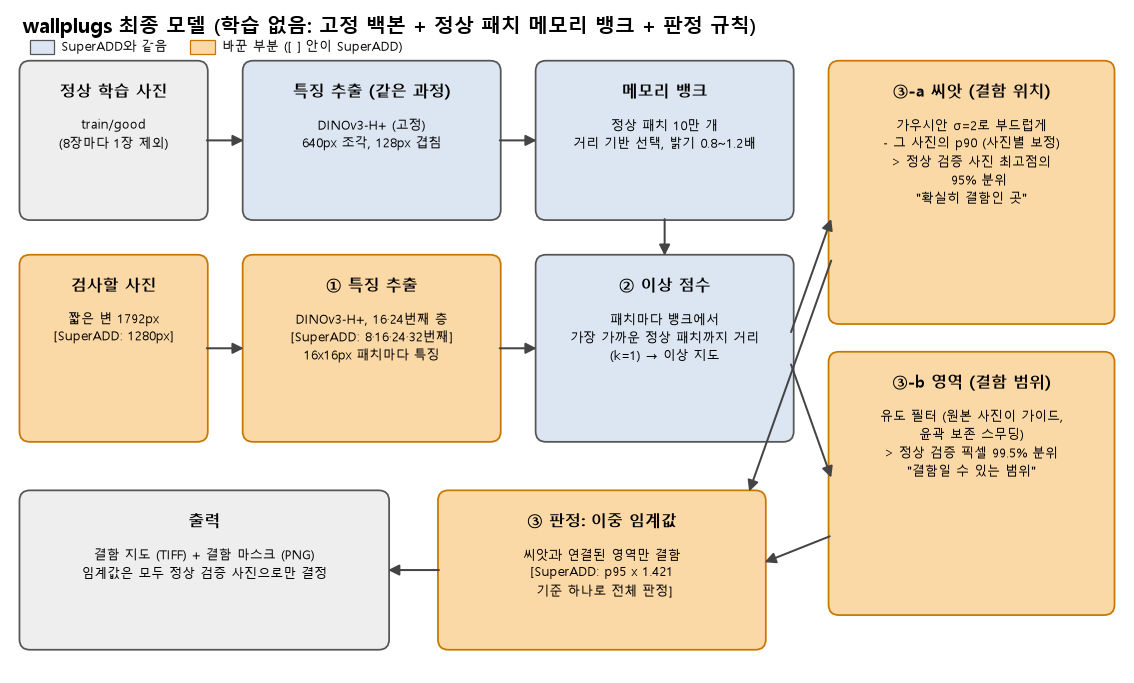
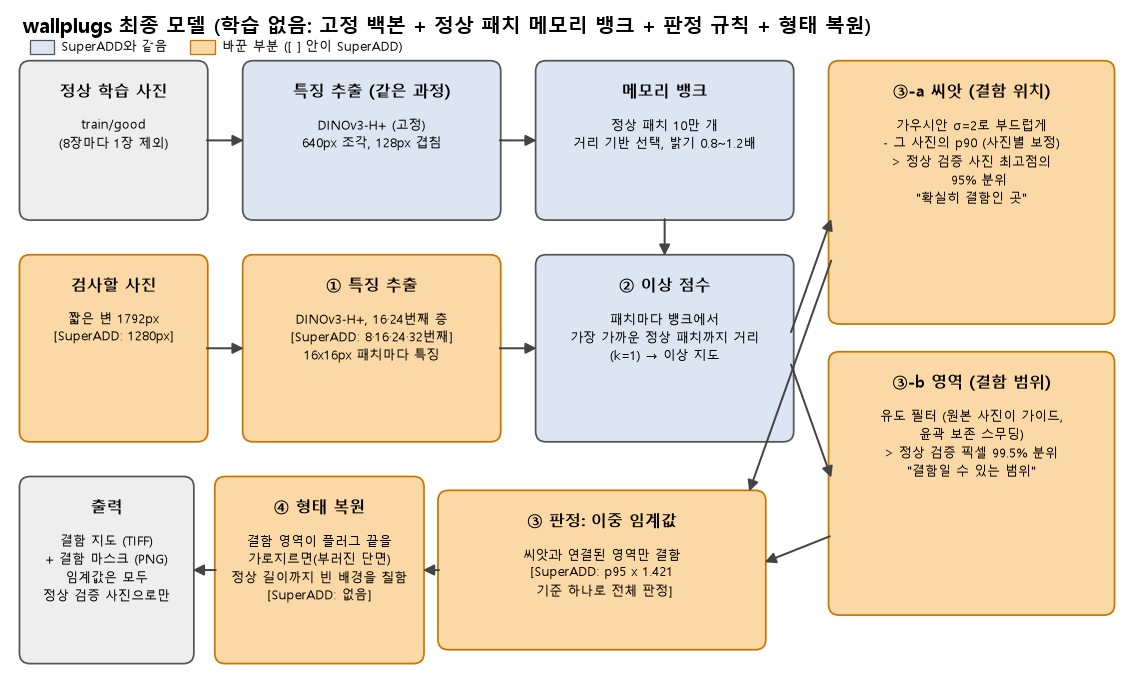
wallplugs: private-test result figure (ours vs SuperADD vs leaderboard best); model diagram gets the shape-completion step

Changed region(s): [[0.0, 0.6764, 0.4012, 0.9839], [0.6481, 0.0, 0.7716, 0.0615]]

diff --git a/scripts/wp_private_results.py b/scripts/wp_private_results.py
@@ -1,0 +1,57 @@
+"""wallplugs private-test results of our benchmark submission (2026-11-09) vs SuperADD and the leaderboard's best.
+Sources: ours = benchmark.mvtec.com row "DINOv3-HiResKNN"; SuperADD SegF1 = paper Table 2; SuperADD AucPro / ClassF1 =
+the leaderboard rows "SuperADD-DINOv3" (14.09.26) / "SuperADD" (07.11.26) (the paper gives SegF1 only); leaderboard best
+= best wallplugs value among each metric's top-10 rows (2026-11-06).
+    .venv/Scripts/python.exe scripts/wp_private_results.py  -> docs/figures/wp_private_results.png
+"""
+import matplotlib.pyplot as plt
+import numpy as np
+
+plt.rcParams["font.family"] = "Malgun Gothic"
+plt.rcParams["axes.unicode_minus"] = False
+METRICS = ["AucPro_0.05\n(지도 품질)", "ClassF1\n(사진 단위 판정)", "SegF1\n(결함 영역 분할)"]
+OURS = [70.56, 68.96, 33.63]
+SUPER = [48.28, 54.00, 26.40]
+BEST = [80.66, 81.15, 51.90]
+BEST_NAME = ["YL", "DINO-DDB", "VAND2025 WSEG"]
+C_OURS, C_SUP, C_BEST = "#2a78d6", "#eb6834", "#1baf7a"
+INK, INK2, GRID, SURF = "#0b0b0b", "#52514e", "#e4e3df", "#fcfcfb"
+
+fig, (ax, ax2) = plt.subplots(1, 2, figsize=(14, 5.6), gridspec_kw={"width_ratios": [2.2, 1]}, facecolor=SURF)
+x = np.arange(3)
+w = 0.26
+ax.set_facecolor(SURF)
+for off, vals, c, lab in ((-w, OURS, C_OURS, "우리 (DINOv3-HiResKNN)"), (0, SUPER, C_SUP, "SuperADD"),
+                          (w, BEST, C_BEST, "리더보드 최고 (상위 10개 중)")):
+    ax.bar(x + off, vals, w - 0.03, color=c, label=lab, zorder=3)
+    for i, v in enumerate(vals):
+        ax.text(i + off, v + 1.0, f"{v:.1f}", ha="center", va="bottom", fontsize=10,
+                color=INK, fontweight="bold" if c == C_OURS else "normal")
+for i, n in enumerate(BEST_NAME):
+    ax.text(i + w, 2, n, ha="center", va="bottom", fontsize=7.5, color="white", rotation=90, zorder=4)
+ax.set_xticks(x, METRICS, fontsize=10.5, color=INK)
+ax.set_ylim(0, 100)
+ax.set_title("wallplugs private test (공식 서버 채점)", loc="left", fontsize=13, color=INK, fontweight="bold")
+ax.legend(loc="upper right", frameon=False, fontsize=9.5, labelcolor=INK)
+
+ax2.set_facecolor(SURF)
+for vals, c, lab in (((75.7, 33.63), C_OURS, "우리"), ((79.2, 26.4), C_SUP, "SuperADD")):
+    ax2.plot([0, 1], vals, color=c, lw=2, marker="o", ms=8, zorder=3)
+    ax2.text(1.06, vals[1], f"{lab} {vals[1]:.1f}", va="center", fontsize=10, color=INK)
+    ax2.text(-0.06, vals[0], f"{vals[0]:.1f}", va="center", ha="right", fontsize=10, color=INK)
+ax2.set_xticks([0, 1], ["공개 test", "private"], fontsize=10.5, color=INK)
+ax2.set_xlim(-0.45, 1.6)
+ax2.set_ylim(0, 100)
+ax2.set_title("SegF1: 공개 → private", loc="left", fontsize=13, color=INK, fontweight="bold")
+for a in (ax, ax2):
+    a.grid(axis="y", color=GRID, lw=0.8, zorder=0)
+    a.tick_params(axis="y", colors=INK2, labelsize=9)
+    a.tick_params(axis="x", length=0)
+    for s in ("top", "right", "left"):
+        a.spines[s].set_visible(False)
+    a.spines["bottom"].set_color(INK2)
+fig.text(0.01, 0.01, "SuperADD: SegF1은 논문 Table 2, AucPro·ClassF1은 리더보드의 SuperADD 재현 제출(논문에 없음). "
+         "우리 공개 test 75.7은 공개 test로 규칙을 고른 추정치.", fontsize=8.5, color=INK2)
+fig.tight_layout(rect=(0, 0.04, 1, 1))
+fig.savefig("docs/figures/wp_private_results.png", dpi=130, facecolor=SURF)
+print("saved docs/figures/wp_private_results.png")

diff --git a/scripts/wp_model_diagram.py b/scripts/wp_model_diagram.py
@@ -27,7 +27,7 @@ def arrow(x0, y0, x1, y1):
     ax.add_patch(FancyArrowPatch((x0, y0), (x1, y1), arrowstyle="-|>", mutation_scale=18, lw=1.6, color="#444444"))
 
 
-ax.text(0.2, 9.25, "wallplugs 최종 모델 (학습 없음: 고정 백본 + 정상 패치 메모리 뱅크 + 판정 규칙)", fontsize=16, weight="bold")
+ax.text(0.2, 9.25, "wallplugs 최종 모델 (학습 없음: 고정 백본 + 정상 패치 메모리 뱅크 + 판정 규칙 + 형태 복원)", fontsize=16, weight="bold")
 # row 1: bank
 box(0.2, 6.6, 2.6, 2.2, "정상 학습 사진", "train/good\n(8장마다 1장 제외)", IO)
 box(3.4, 6.6, 3.6, 2.2, "특징 추출 (같은 과정)", "DINOv3-H+ (고정)\n640px 조각, 128px 겹침", SAME)
@@ -49,8 +49,10 @@ arrow(11.2, 4.5, 11.8, 2.8)
 box(6.2, 0.4, 4.6, 2.2, "③ 판정: 이중 임계값", "씨앗과 연결된 영역만 결함\n[SuperADD: p95 x 1.421\n 기준 하나로 전체 판정]", NEW, "#C77700")
 arrow(11.8, 2.0, 10.8, 1.6)
 arrow(11.8, 6.0, 10.6, 2.6)
-box(0.2, 0.4, 5.2, 2.2, "출력", "결함 지도 (TIFF) + 결함 마스크 (PNG)\n임계값은 모두 정상 검증 사진으로만 결정", IO)
-arrow(6.2, 1.5, 5.4, 1.5)
+box(3.0, 0.2, 2.9, 2.6, "④ 형태 복원", "결함 영역이 플러그 끝을\n가로지르면(부러진 단면)\n정상 길이까지 빈 배경을 칠함\n[SuperADD: 없음]", NEW, "#C77700")
+arrow(6.2, 1.5, 5.9, 1.5)
+box(0.2, 0.2, 2.4, 2.6, "출력", "결함 지도 (TIFF)\n+ 결함 마스크 (PNG)\n임계값은 모두\n정상 검증 사진으로만", IO)
+arrow(3.0, 1.5, 2.6, 1.5)
 ax.add_patch(FancyBboxPatch((0.3, 8.95), 0.35, 0.2, boxstyle="square,pad=0", fc=SAME, ec="#555555"))
 ax.text(0.75, 9.05, "SuperADD와 같음", fontsize=10, va="center")
 ax.add_patch(FancyBboxPatch((2.6, 8.95), 0.35, 0.2, boxstyle="square,pad=0", fc=NEW, ec="#C77700"))
